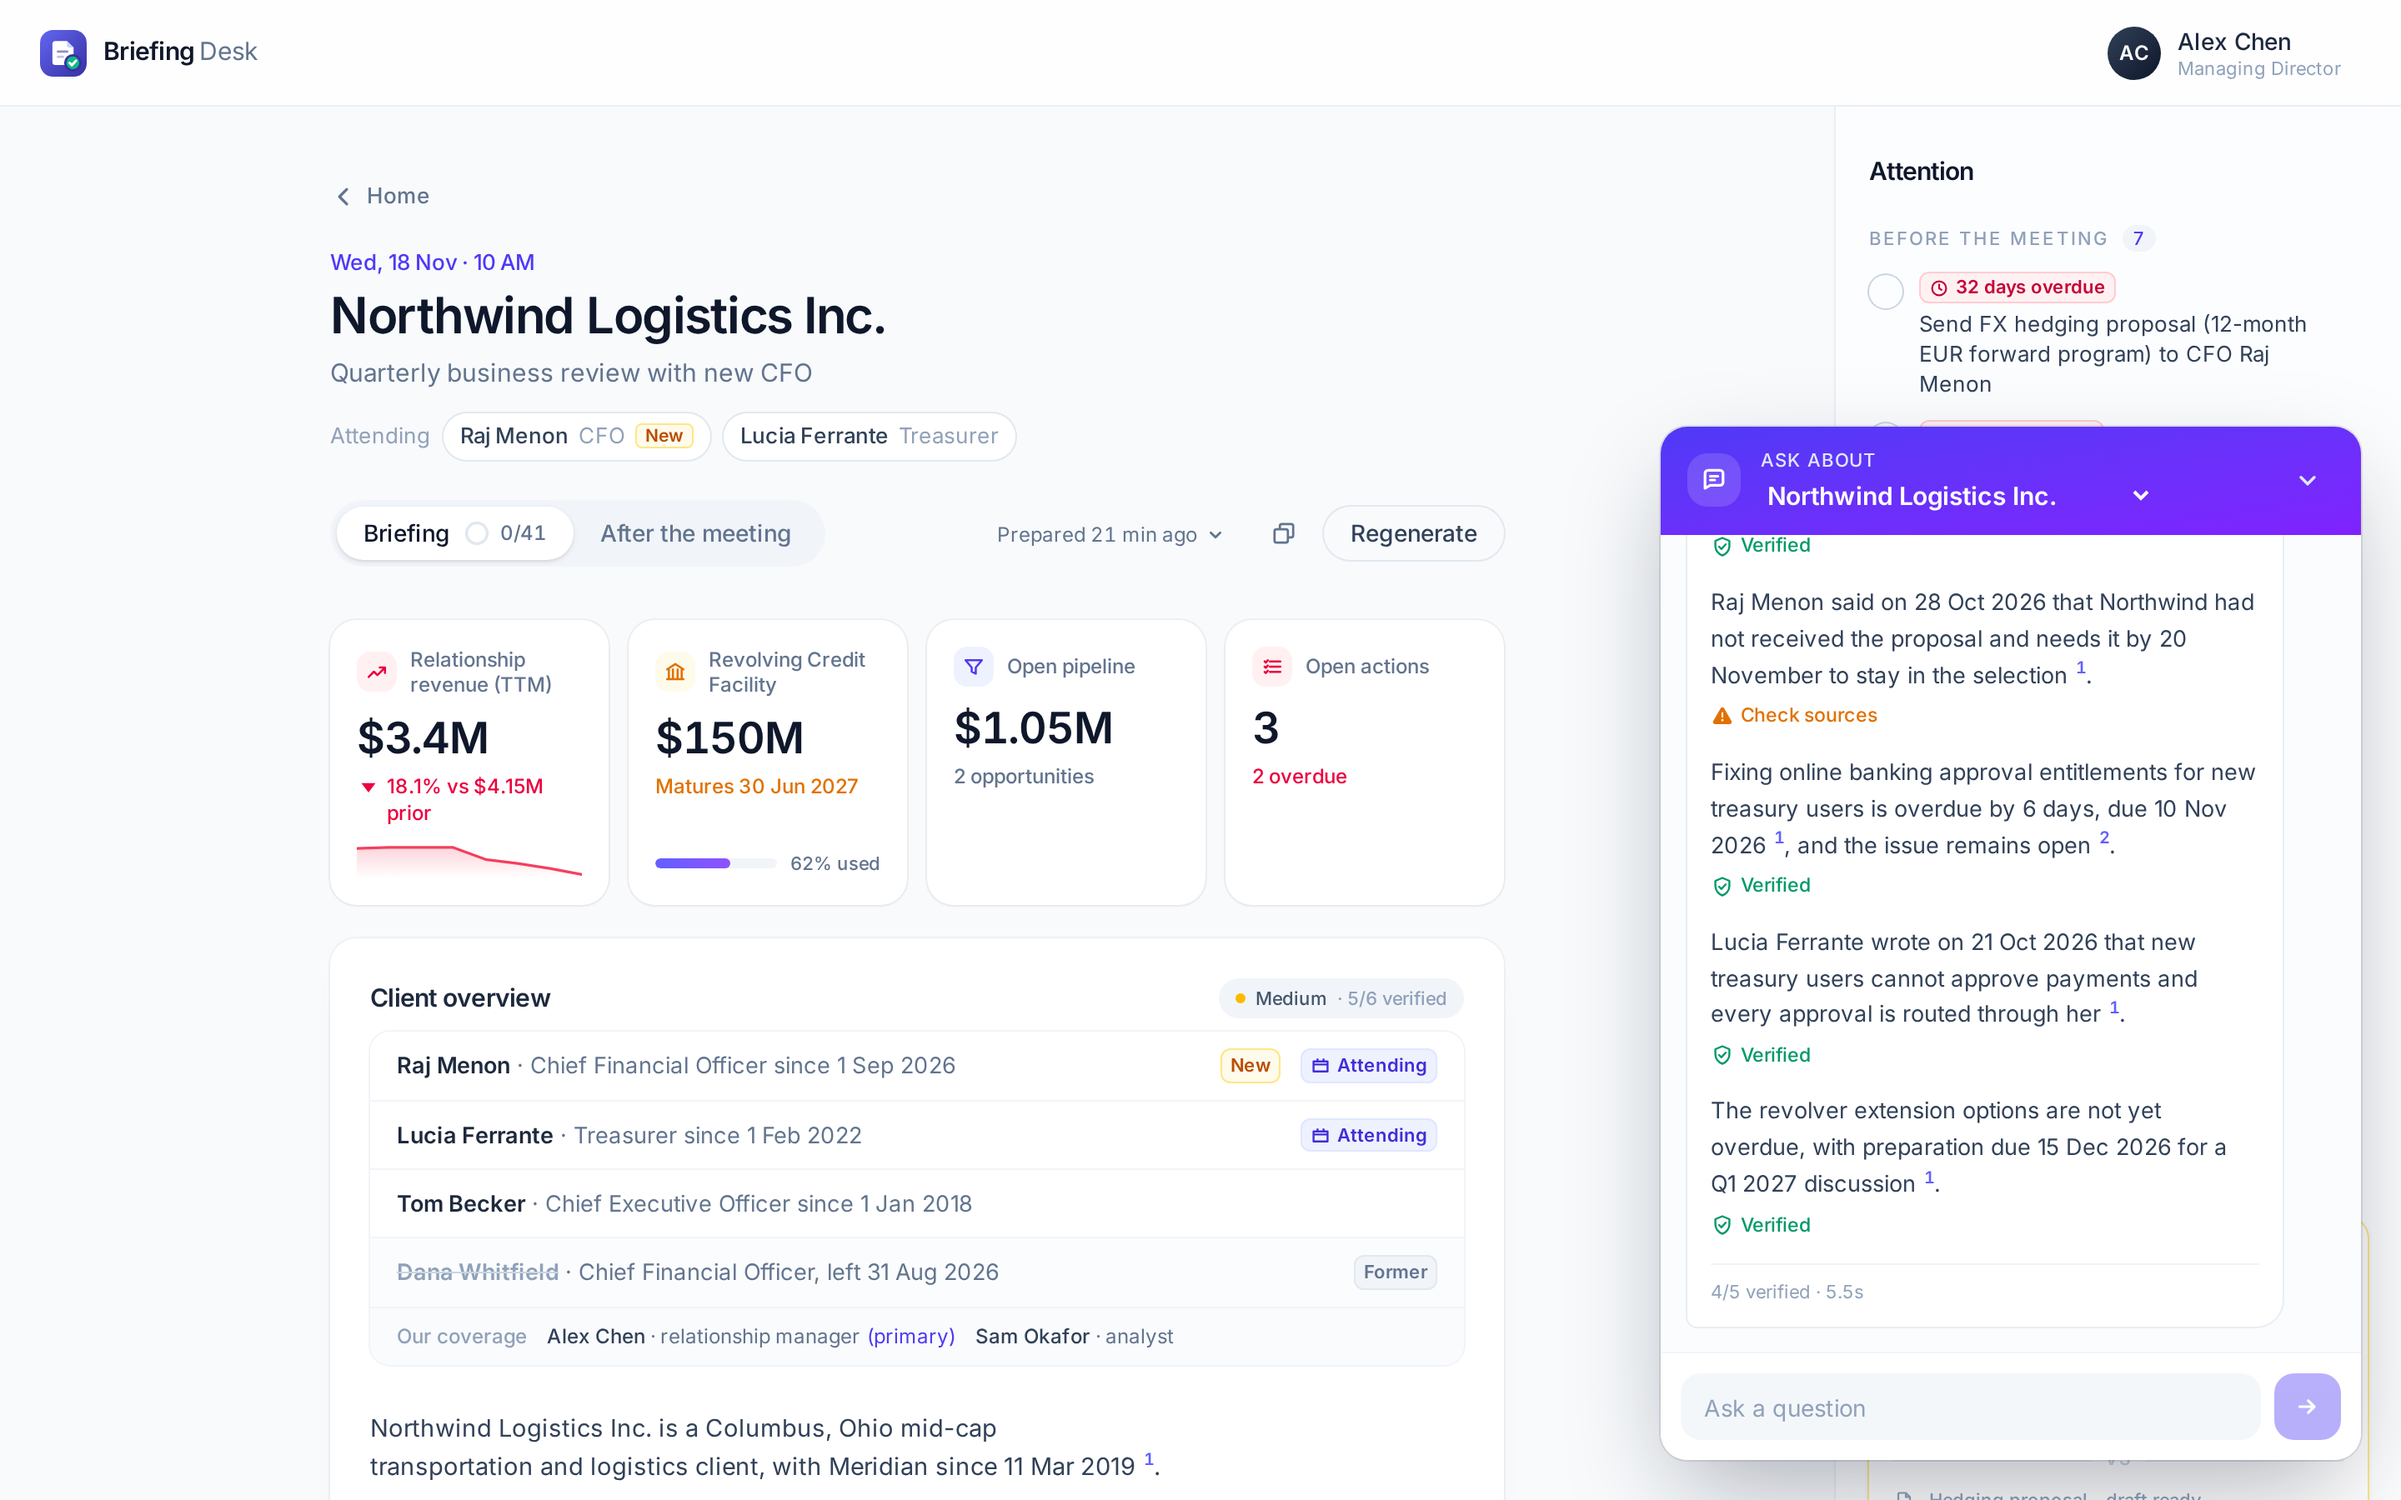
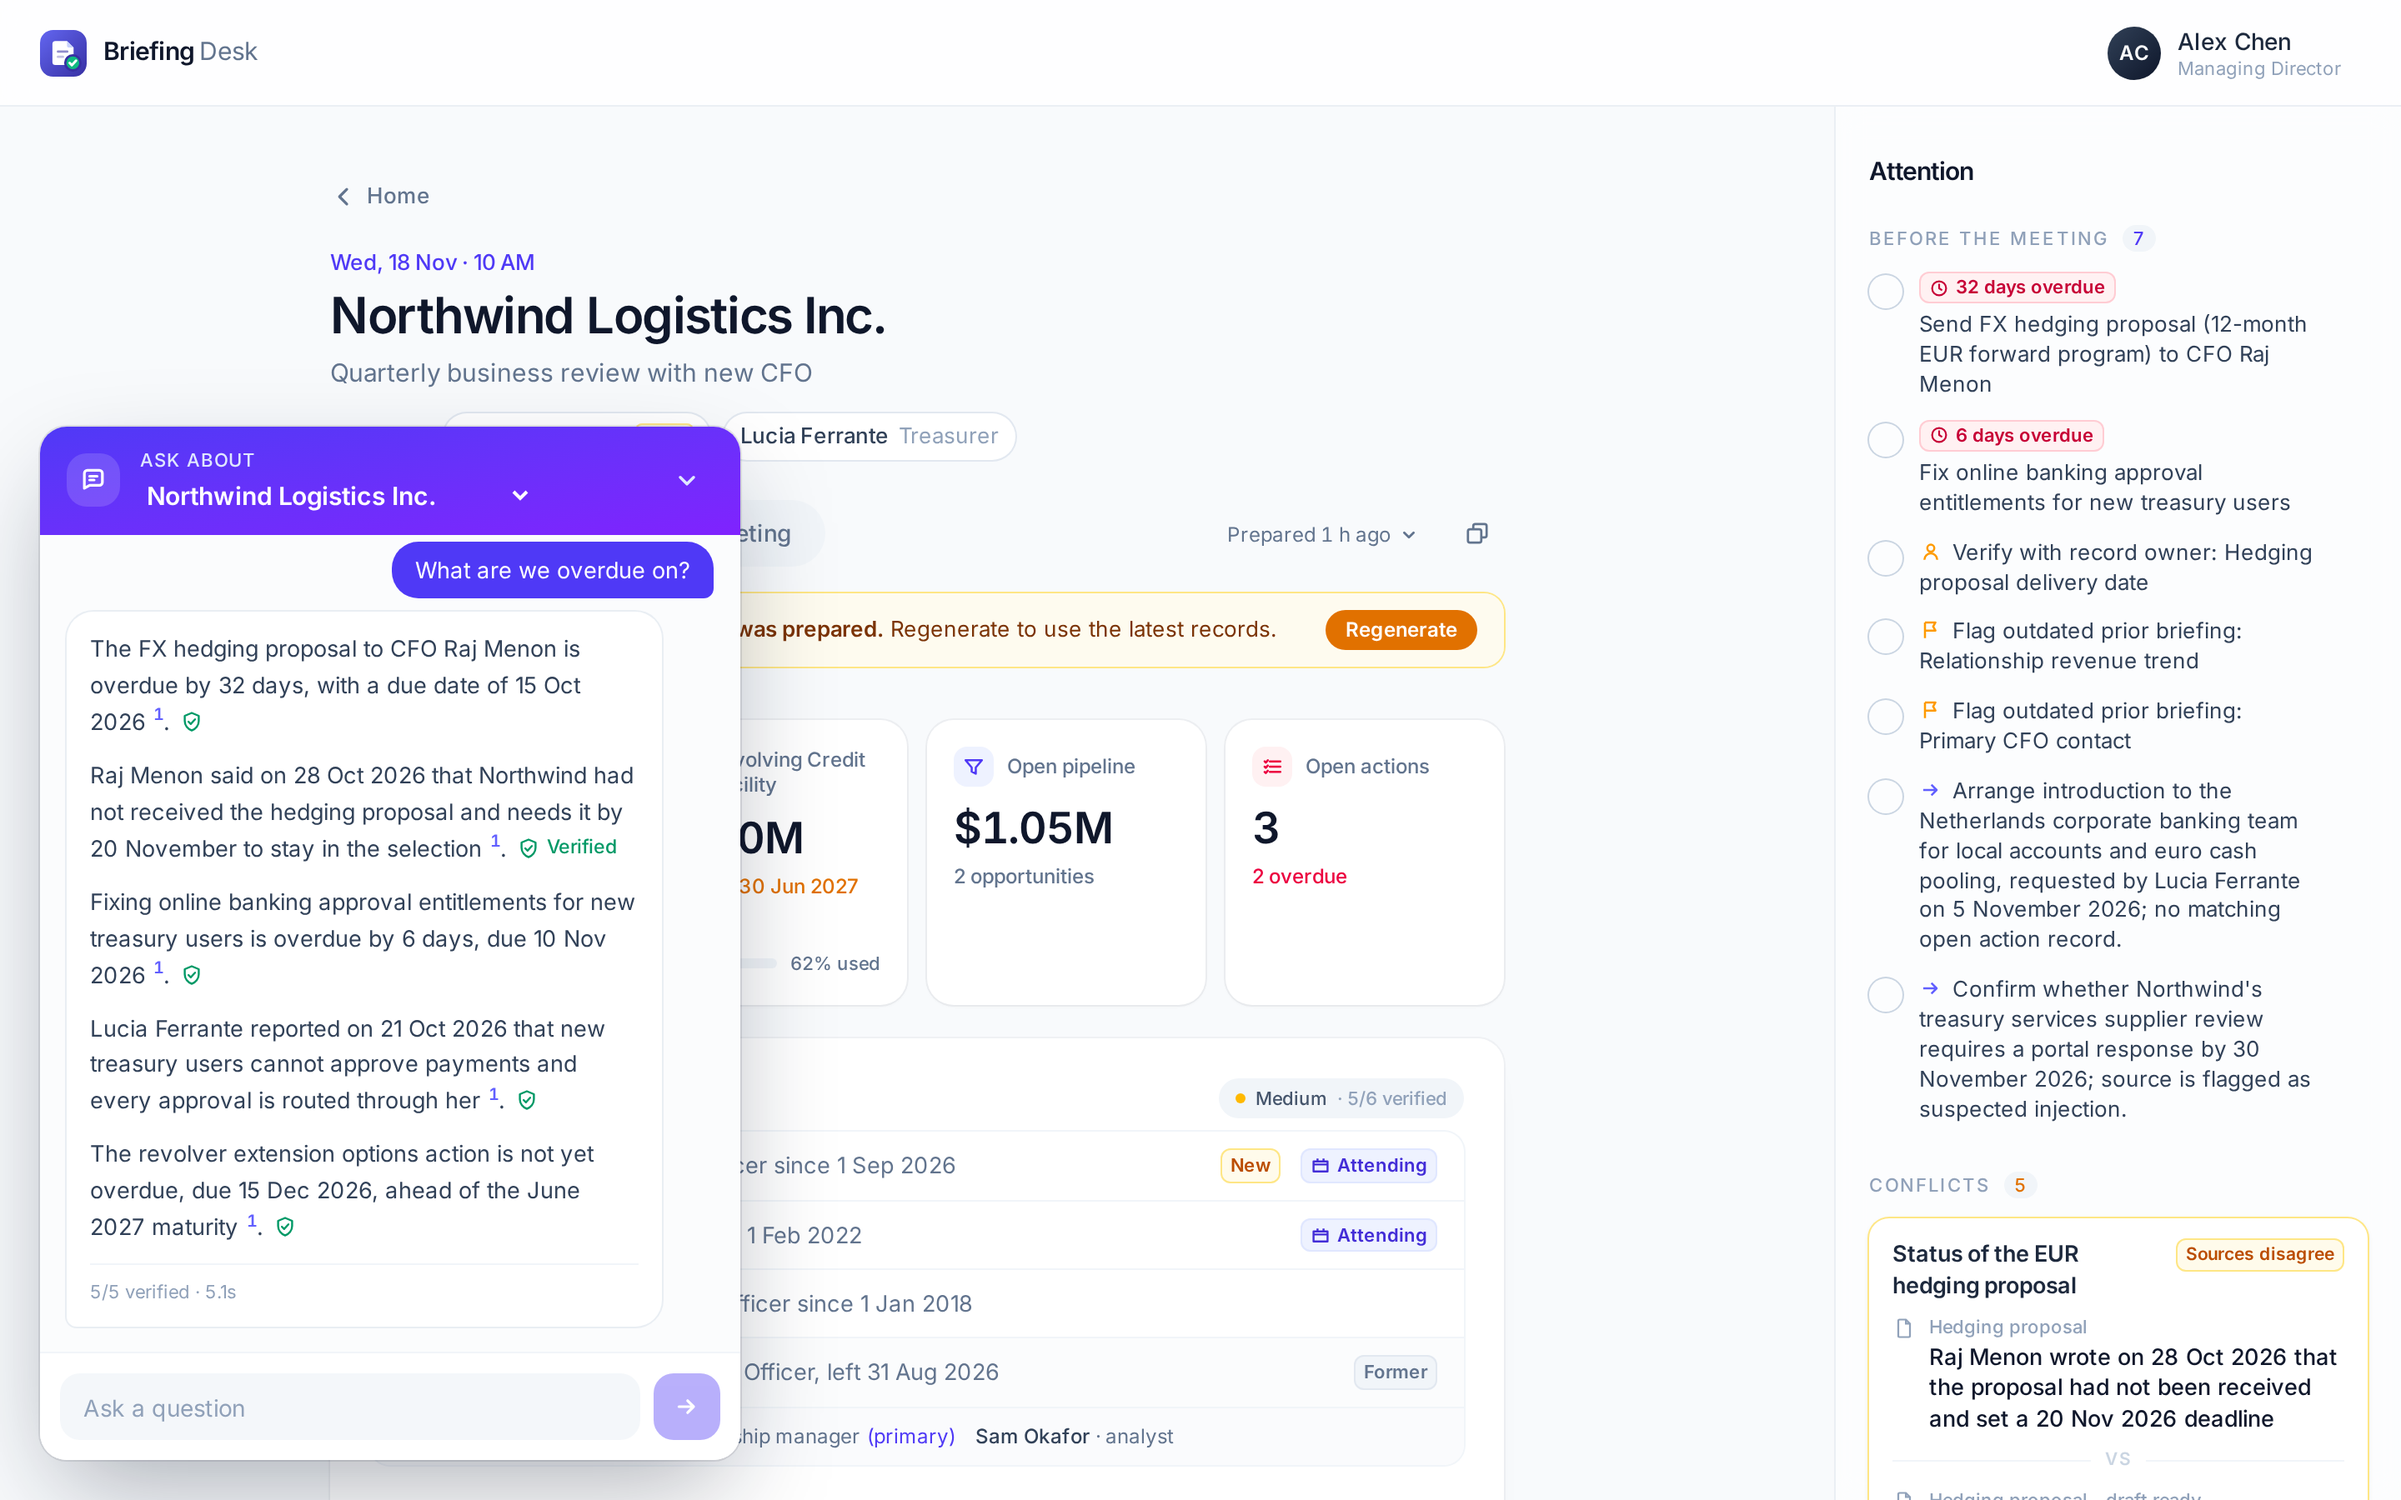
Move the chat to the bottom left
The launcher and panel no longer cover the attention panel on the briefing page.

diff --git a/frontend/src/components/ChatWidget.tsx b/frontend/src/components/ChatWidget.tsx
@@ -109,7 +109,7 @@ export function ChatWidget({ userId, clients, currentClientId, onCite }: Props) 
     return (
       <button
         onClick={() => setOpen(true)}
-        className="fixed bottom-6 right-6 z-30 inline-flex items-center gap-2.5 rounded-full bg-gradient-to-br from-indigo-600 to-violet-600 py-3 pl-4 pr-5 text-sm font-semibold text-white shadow-[0_12px_32px_-8px_rgba(79,70,229,0.6)] transition hover:-translate-y-0.5 hover:shadow-[0_16px_40px_-8px_rgba(79,70,229,0.7)]"
+        className="fixed bottom-6 left-6 z-30 inline-flex items-center gap-2.5 rounded-full bg-gradient-to-br from-indigo-600 to-violet-600 py-3 pl-4 pr-5 text-sm font-semibold text-white shadow-[0_12px_32px_-8px_rgba(79,70,229,0.6)] transition hover:-translate-y-0.5 hover:shadow-[0_16px_40px_-8px_rgba(79,70,229,0.7)]"
       >
         <ChatIcon className="h-5 w-5" />
         {client ? `Ask about ${shortName(client.name)}` : 'Ask'}
@@ -121,7 +121,7 @@ export function ChatWidget({ userId, clients, currentClientId, onCite }: Props) 
     <section
       role="dialog"
       aria-label="Ask about a client"
-      className="rise fixed bottom-6 right-6 z-30 flex h-[620px] max-h-[calc(100vh-7rem)] w-[420px] flex-col overflow-hidden rounded-2xl bg-white shadow-[0_24px_64px_-12px_rgba(15,23,42,0.35)] ring-1 ring-slate-900/10"
+      className="rise fixed bottom-6 left-6 z-30 flex h-[620px] max-h-[calc(100vh-7rem)] w-[420px] flex-col overflow-hidden rounded-2xl bg-white shadow-[0_24px_64px_-12px_rgba(15,23,42,0.35)] ring-1 ring-slate-900/10"
     >
       <header className="flex items-center gap-3 bg-gradient-to-br from-indigo-600 to-violet-600 px-4 py-3 text-white">
         <span className="grid h-8 w-8 place-items-center rounded-xl bg-white/15">

diff --git a/specs/05-api-ui.md b/specs/05-api-ui.md
@@ -84,7 +84,7 @@ company search box was tried and removed: the home cards list every covered clie
 picks its client. API-13 remains available. Browser Back / Forward and reload follow the open
 meeting (`#/meeting/<id>`); the briefing page has a Home link.
 
-**UI-13 Ask chat:** a floating chat on every page (bottom right). Typing is never blocked. While
+**UI-13 Ask chat:** a floating chat on every page (bottom left, clear of the attention panel). Typing is never blocked. While
 the user types, the client named in the question is detected (API-13, aliases included) and shown
 ("About Northwind Logistics, from NWL"); otherwise the client on screen is used; with neither, the
 chat keeps the question and asks which client it is about. Suggested questions; each answer shows

diff --git a/README.md b/README.md
@@ -52,7 +52,7 @@ A five-minute tour:
    highlighted, or the database row itself.
 3. **Look at the right panel.** The overdue proposal is on top. The "Changed" cards show what the
    last briefing said ($4.1M and growing, Dana Whitfield as CFO) next to what is true now.
-4. **Click "Ask about Northwind"** (bottom right, on every page) and ask anything. Answers are
+4. **Click "Ask about Northwind"** (bottom left, on every page) and ask anything. Answers are
    cited and verified like the briefing.
 5. **Switch to Sam, then to Kim, and open Helios.** Kim sees the Aurora mandate. Sam does not, and
    nothing on Sam's page names it (only a general "some sources are restricted" notice).
